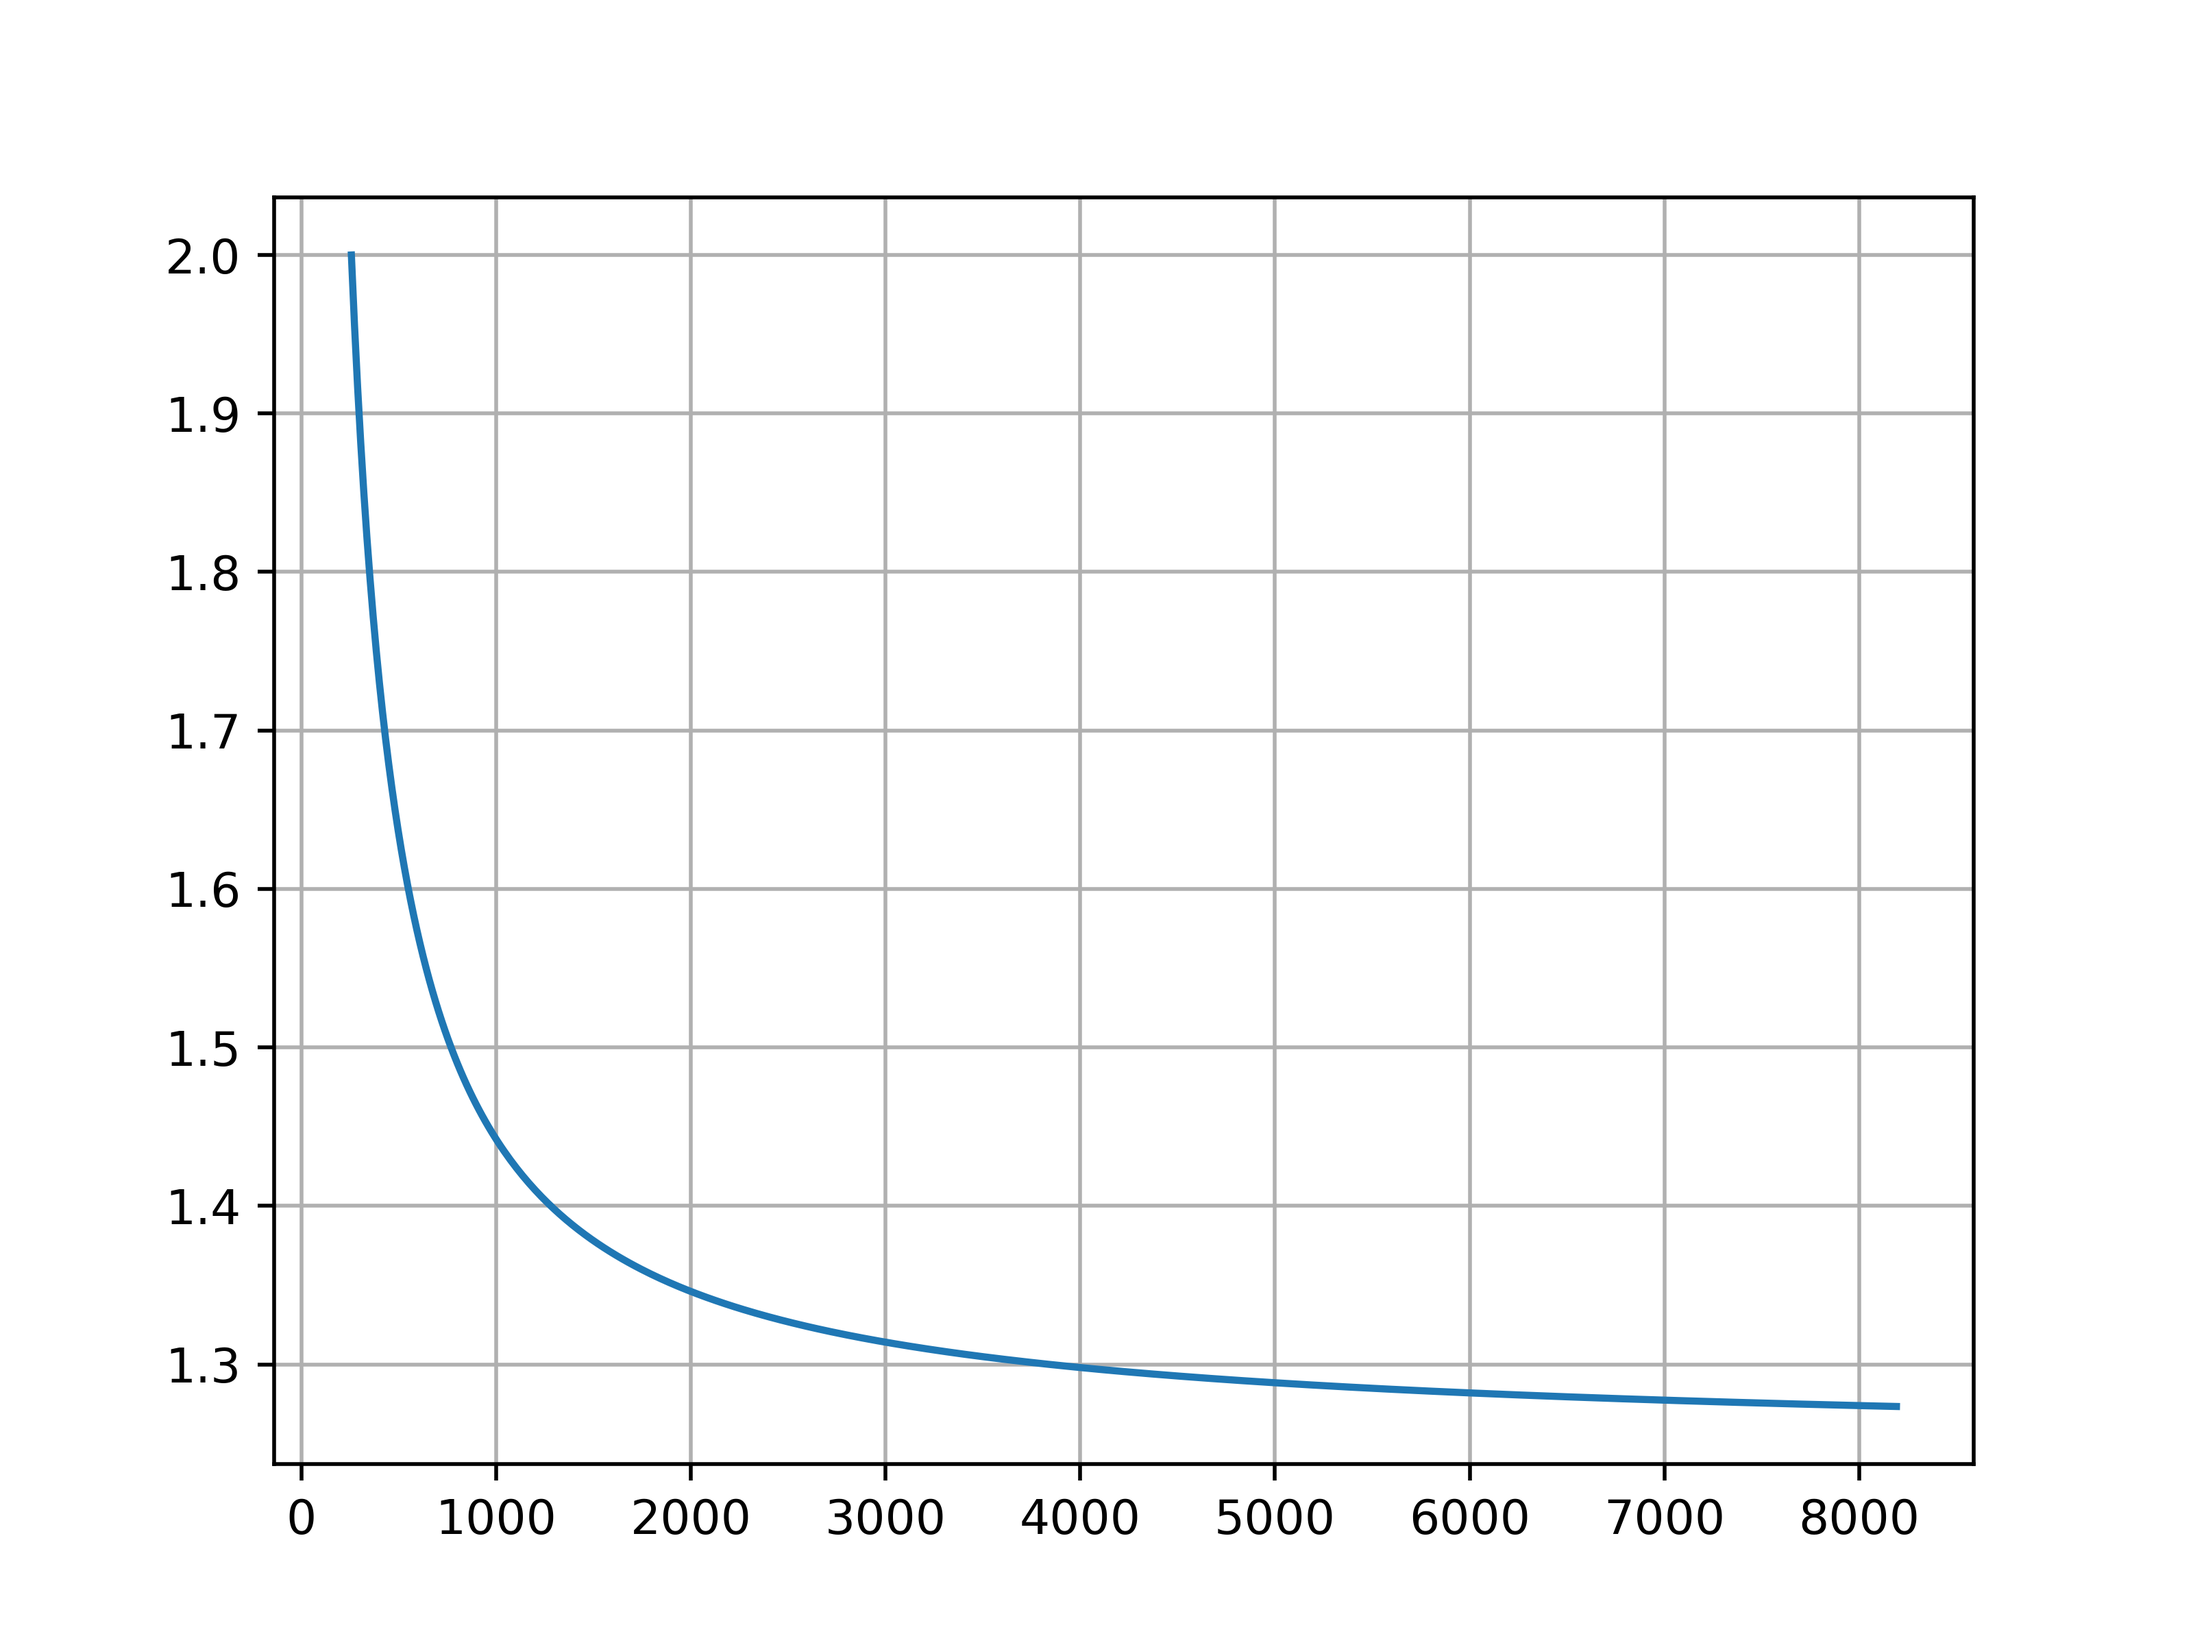
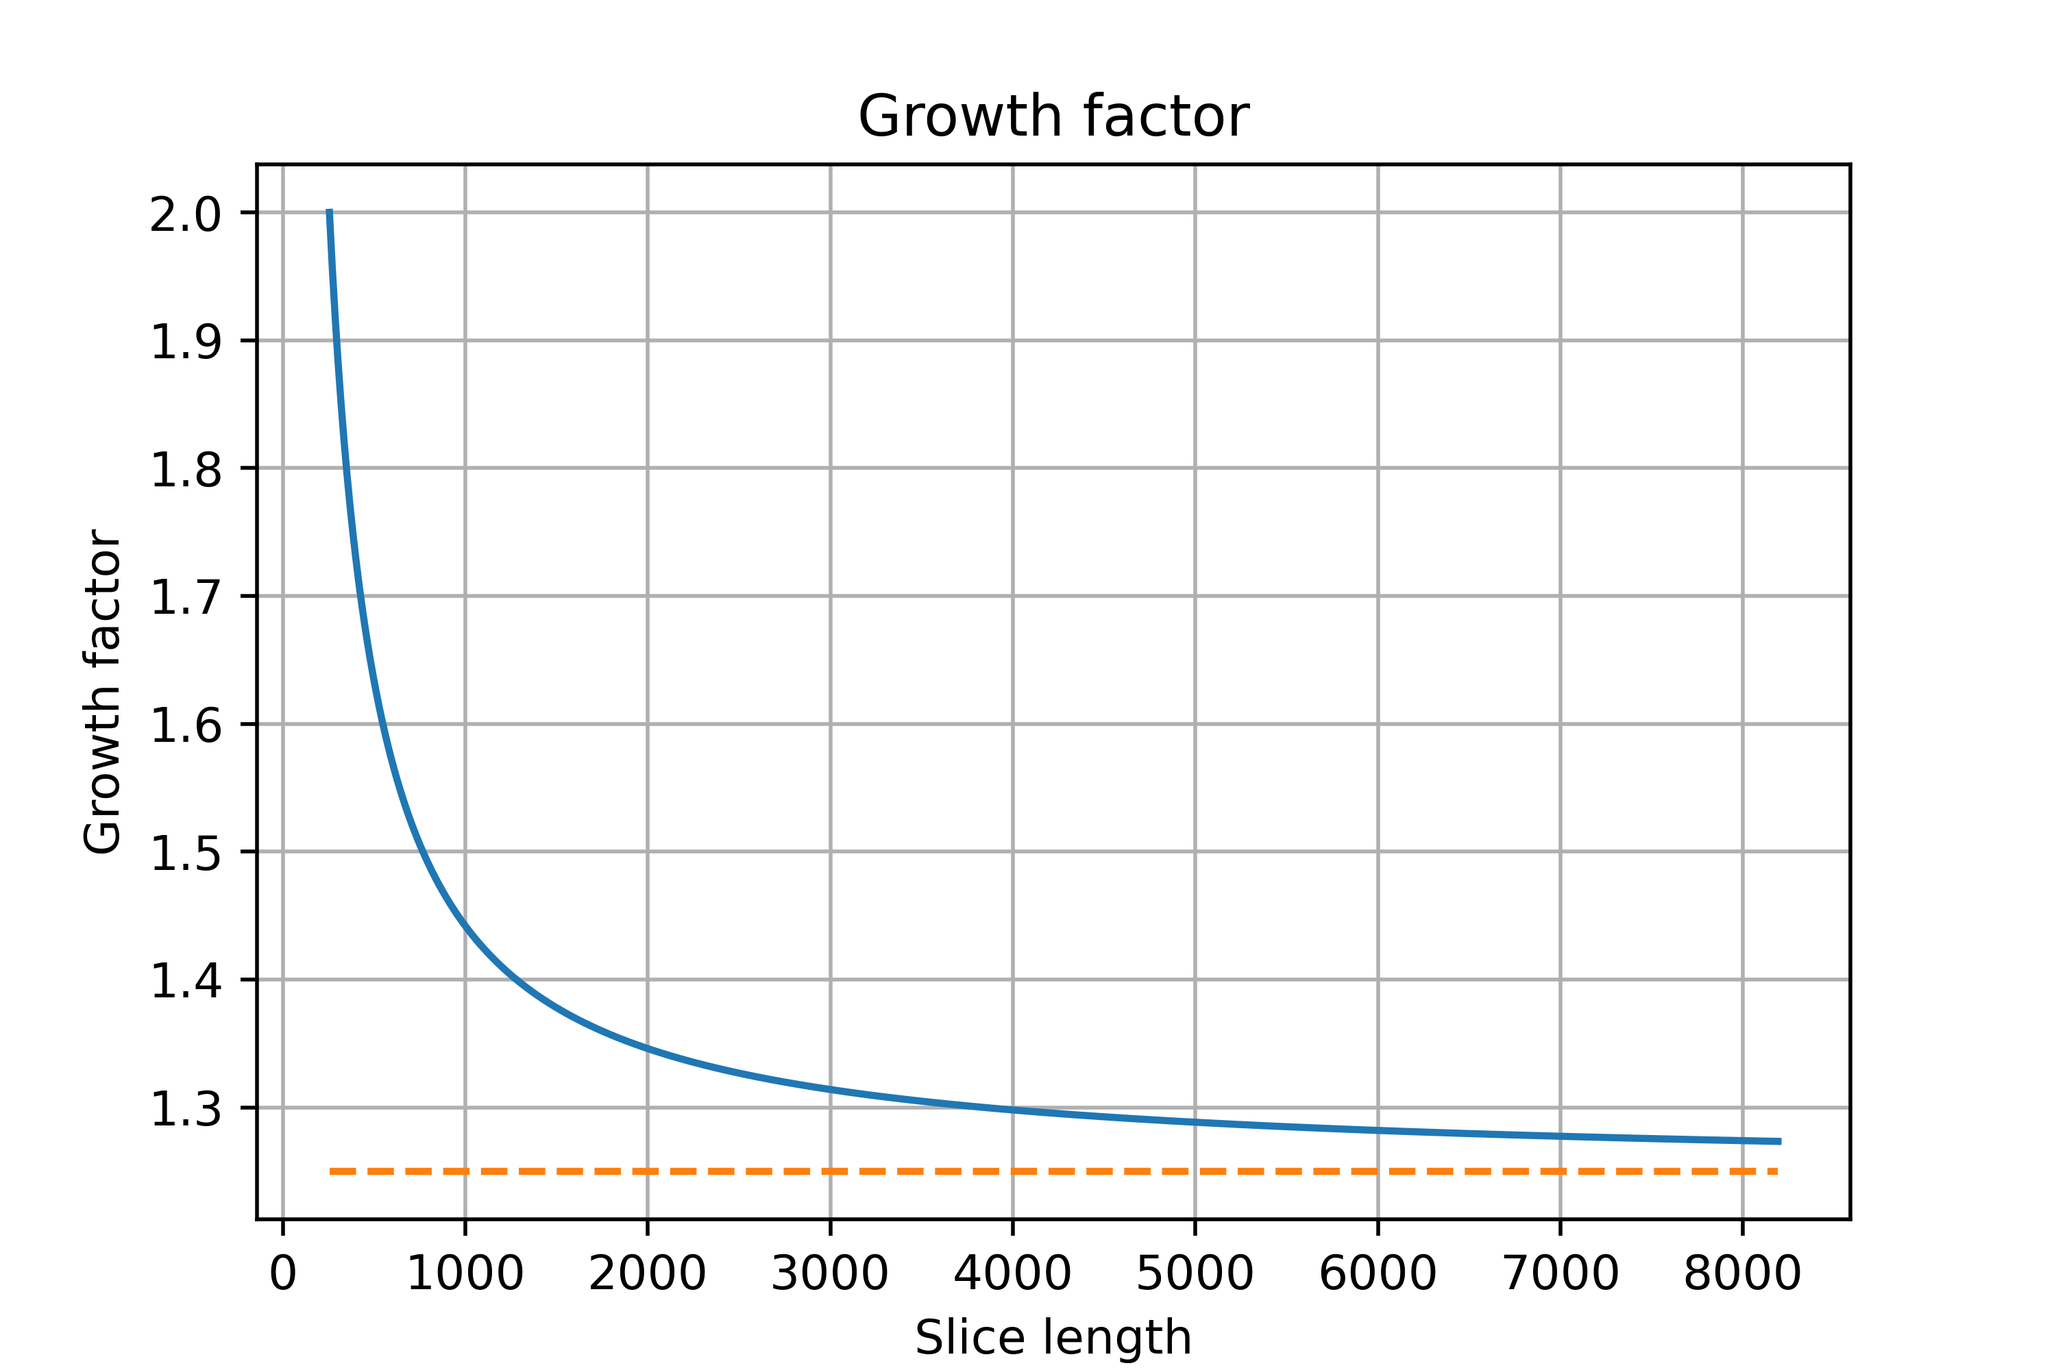
fix: factor function axis labels

diff --git a/benchmarks/gen-data.py b/benchmarks/gen-data.py
@@ -16,6 +16,8 @@ def check_distances(x, y, text_pos):
 c = 256
 c_old = 256
 limit = 8192
+minf = 1.25
+maxf = 2.0
 
 xs = []
 ys = []
@@ -27,11 +29,16 @@ for i in range(c_old, limit + 1, 16):
     ys.append(factor)
     print(f"c = {i}, acc = {acc}, factor = {factor}")
 
+fig = plt.figure(figsize=(6,4))
+plt.title('Growth factor')
 plt.plot(xs, ys)
+plt.plot([c_old, limit], [minf, minf], ls='dashed')
+plt.ylabel('Growth factor')
+plt.xlabel('Slice length')
 plt.grid(True)
 
-#plt.savefig('factor.png', dpi=500)
-#plt.show()
+plt.savefig('factor.png', dpi=500)
+plt.show()
 
 sep = 'Alloc'
 
@@ -99,5 +106,5 @@ for p in range(2):
 
 print(text_pos)
 figs.tight_layout()
-plt.savefig('mem-plot.png', dpi=500)
+#plt.savefig('mem-plot.png', dpi=500)
 plt.show()
